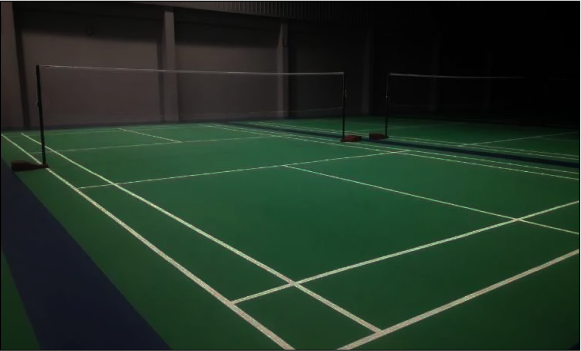
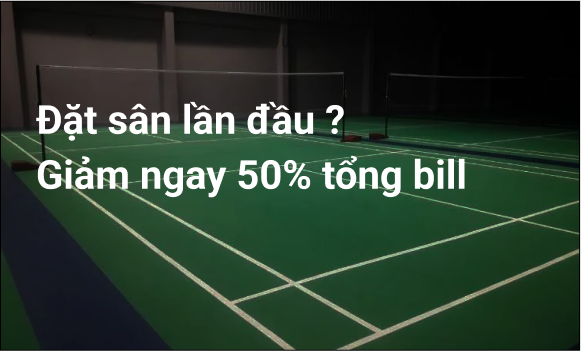
index

Changed region(s): [[0.062, 0.4274, 0.8055, 0.5698], [0.062, 0.2849, 0.5886, 0.3989]]

diff --git a/SS_FE/views/pages/index.html b/SS_FE/views/pages/index.html
@@ -17,7 +17,7 @@
 
     <section id="search-section">
       <div class="image-container">
-        <img src="/images/soccer-field.png" alt="Soccer Field" />
+        <img src="/images/homepage/soccer-field.png" alt="Soccer Field" />
         <div class="description-container">
           <div class="logo-container">
             <span class="sport">Sport</span>
@@ -55,7 +55,7 @@
 
     <section id="benefits-section">
       <div class="benefit-item-1">
-        <img src="/images/iconStadium.png" alt="Tìm kiếm vị trí sân" />
+        <img src="/images/homepage/iconStadium.png" alt="Tìm kiếm vị trí sân" />
         <h3>Tìm kiếm vị trí sân</h3>
         <p>
           Thông tin sân đầy đủ, phong phú, liên tục cập nhật, giúp bạn dễ dàng
@@ -63,7 +63,7 @@
         </p>
       </div>
       <div class="benefit-item-2">
-        <img src="/images/iconCalendar.png" alt="Đặt lịch dễ dàng" />
+        <img src="/images/homepage/iconCalendar.png" alt="Đặt lịch dễ dàng" />
         <h3>Đặt lịch dễ dàng</h3>
         <p>
           Không cần trực tiếp, không cần gọi điện hẹn trước, bạn có thể đặt sân
@@ -71,7 +71,7 @@
         </p>
       </div>
       <div class="benefit-item-3">
-        <img src="/images/iconCarrier.png" alt="Tổ chức giải đấu" />
+        <img src="/images/homepage/iconCarrier.png" alt="Tổ chức giải đấu" />
         <h3>Tổ chức giải đấu</h3>
         <p>
           Tìm đối thủ, kết nối, giao lưu các đội và thể dục thể thao thông qua
@@ -87,21 +87,21 @@
       </div>
       <div class="promotion-cards">
         <div class="promotion-card">
-          <img src="https://placehold.co/580x350" alt="Promotion Image 1" />
+          <img src="/images/homepage/promotion.png" alt="Promotion Image 1" />
           <div class="promotion-info">
             <button class="book-now-btn">Đặt sân ngay</button>
           </div>
         </div>
 
         <div class="promotion-card">
-          <img src="https://placehold.co/580x350" alt="Promotion Image 2" />
+          <img src="/images/homepage/promotion.png" alt="Promotion Image 2" />
           <div class="promotion-info">
             <button class="book-now-btn">Đặt sân ngay</button>
           </div>
         </div>
 
         <div class="promotion-card">
-          <img src="https://placehold.co/580x350" alt="Promotion Image 3" />
+          <img src="/images/homepage/promotion.png" alt="Promotion Image 3" />
           <div class="promotion-info">
             <button class="book-now-btn">Đặt sân ngay</button>
           </div>
